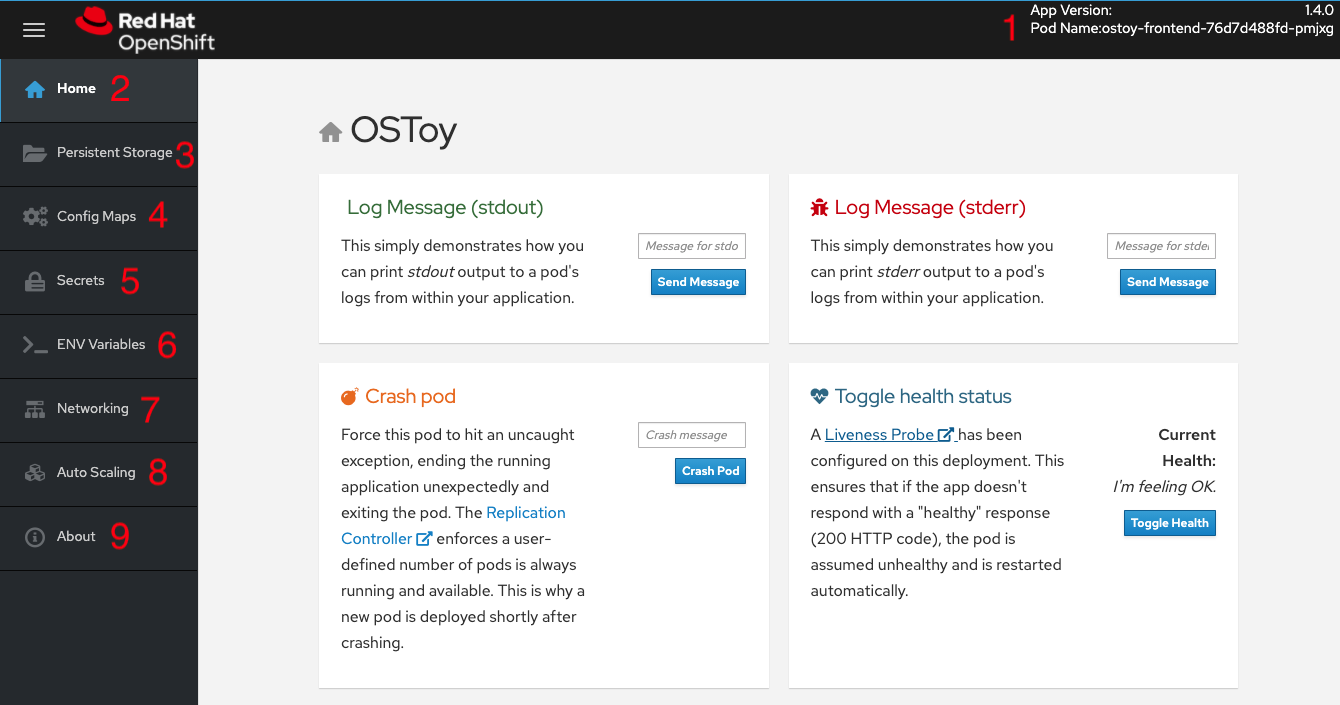
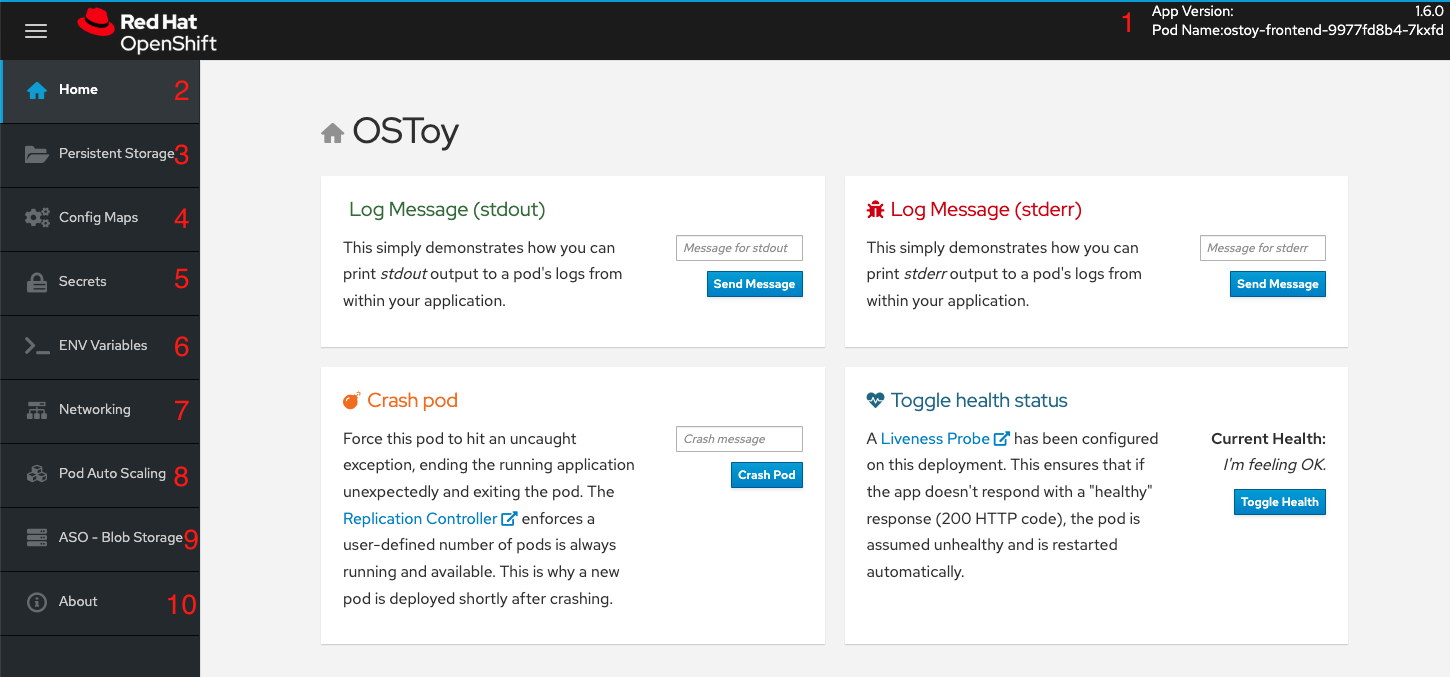
Updates for integration with Blobstore

diff --git a/_entries/03-10 aso-blobstore.md b/_entries/03-10 aso-blobstore.md
@@ -5,13 +5,24 @@ title: Azure Service Operator - Blob Store
 parent-id: lab-clusterapp
 ---
 
+# Integrating with Azure services
+
+So far, our OSToy application has functioned independently without relying on any external services. While this may be nice for a workshop environment, it's not exactly representative of real-world applications. Many applications require external services like databases, object stores, or messaging services.
+
+In this section, we will learn how to integrate our OSToy application with other Azure services, specifically Azure Blob Storage and Key Vault. By the end of this section, our application will be able to securely create and read objects from Blob Storage.
+
+To achieve this, we will use the Azure Service Operator (ASO) to create the necessary services for our application directly from Kubernetes. We will also utilize Key Vault to securely store the connection secret required for accessing the Blob Storage container. We will create a Kubernetes secret to retrieve this secret from Key Vault, enabling our application to access the Blob Storage container using the secret.
+
+To demonstrate this integration, we will use OSToy to create a basic text file and save it in Blob Storage. Finally, we will confirm that the file was successfully added and can be read from Blob Storage.
+
 ## Azure Service Operator (ASO)
 
 The [Azure Service Operator](https://azure.github.io/azure-service-operator/) (ASO) allows you to create and use Azure services directly from
 Kubernetes. You can deploy your applications, including any required Azure services directly within the Kubernetes framework using a familiar structure to declaratively define and create Azure services like Storage Blob or CosmosDB databases.
 
-In order to illustrate the use of the ASO on ARO, we will walk through a simple example of creating an Azure Blob Storage container, connecting to it with OSToy, upload a file to it, and view the file in our application. Interestingly, this part of the workshop will also use Azure Key Vault to store secrets that the application can use to access Azure services.  We will store the secret needed to access the Blob Storage in Azure Key Vault and then mount the secret from there into our cluster for the OSToy application to use.  
+## Key Vault
 
+Azure Key Vault is a cloud-based service provided by Microsoft Azure that allows you to securely store and manage cryptographic keys, secrets, and certificates used by your applications and services.
 
 ### Why should you use Key Vault to store secrets?
 Using a secret store like Azure Key Vault allows you to take advantage of a number of benefits.
@@ -19,15 +30,15 @@ Using a secret store like Azure Key Vault allows you to take advantage of a numb
 1. Centralization - You are able to keep all your organizations secrets in one location.
 1. Security - Features like access control, monitoring, encryption and audit are already baked in.
 1. Rotation - Decoupling the secret from your cluster makes it much easier to rotate secrets since you only have to update it in Key Vault and the Kubernetes secret in the cluster
-    will reference that external secret store.
+    will reference that external secret store. This also allows for separation of duties as someone else can manage these resources.
 
-### Section overview
+## Section overview
 
-To make the process clearer, here is an overview of the procedure we are going to follow. There are three main "parts".
+To provide a clearer understanding of the process, the procedure we will be following consists of three primary parts.
 
-1. **Install the Azure Service Operator** - This allows you to create/delete blob storage through the use of a Kubernetes Custom Resource.  Install the controller which will also create the required namespace and the service account and then create the required resources.
+1. **Install the Azure Service Operator** - This allows you to create/delete Azure services (in our case, Blob Storage) through the use of a Kubernetes Custom Resource. Install the controller which will also create the required namespace and the service account and then create the required resources.
 1. **Setup Key Vault** - Perform required prerequisites (ex: install CSI drivers), create a Key Vault instance, add the connection string.
-1. **Application access** - configuring the application to access the stored connection string in Key Vault and thus enable the application to access the Blob Storage location.
+1. **Application access** - Configuring the application to access the stored connection string in Key Vault and thus enable the application to access the Blob Storage location.
 
 Below is an updated application diagram of what this will look like after completing this section.
 
@@ -64,7 +75,7 @@ Operator can create resources and that access can be granted to Key Vault.
     export SERVICE_PRINCIPAL_CLIENT_SECRET="$(az ad sp create-for-rbac -n aro-lab-sp-${MY_UUID} --role contributor --scopes /subscriptions/$AZURE_SUBSCRIPTION_ID --query 'password' -o tsv)"
     ```
 
-1. Get the service principal Client Id
+1. Get the service principal Client Id.
 
     ```
     export SERVICE_PRINCIPAL_CLIENT_ID="$(az ad sp list --display-name aro-lab-sp-${MY_UUID} --query '[0].appId' -o tsv)"
@@ -81,10 +92,10 @@ Operator can create resources and that access can be granted to Key Vault.
 ### Install the Azure Service Operator
 
 1. Set up ASO
-    1. We first need to install Cert Manager.  Run the following:
+    1. We first need to install Cert Manager.  Run the following.
 
         ```
-        oc apply -f https://github.com/jetstack/cert-manager/releases/download/v1.11.1/cert-manager.yaml
+        oc apply -f https://github.com/jetstack/cert-manager/releases/download/v1.8.2/cert-manager.yaml
         ```
 
     1.  Confirm that the cert-manager pods have started successfully before continuing.
@@ -92,10 +103,10 @@ Operator can create resources and that access can be granted to Key Vault.
         ```
         oc get pods -n cert-manager
         ```
+        
         You will see a response like:
 
         ```
-        $ oc get pods -n cert-manager
         NAME                                       READY   STATUS    RESTARTS   AGE
         cert-manager-677874db78-t6wgn              1/1     Running   0          1m
         cert-manager-cainjector-6c5bf7b759-l722b   1/1     Running   0          1m
@@ -108,13 +119,13 @@ Operator can create resources and that access can be granted to Key Vault.
         helm repo add aso2 https://raw.githubusercontent.com/Azure/azure-service-operator/main/v2/charts
         ```
 
-    1. Update the Helm repository
+    1. Update the Helm repository.
 
         ```
         helm repo update
         ```
 
-    1. Install the ASO from Helm
+    1. Install the ASO.
 
         ```
         helm upgrade --install --devel aso2 aso2/azure-service-operator \
@@ -126,7 +137,7 @@ Operator can create resources and that access can be granted to Key Vault.
         --set azureClientSecret=$SERVICE_PRINCIPAL_CLIENT_SECRET
         ```
 
-     1. Ensure the pods are running successfully.  This could take about 2 minutes.
+     1. Ensure that the pods are running successfully.  This could take about 2 minutes.
 
         ```
         oc get pods -n azureserviceoperator-system
@@ -135,15 +146,13 @@ Operator can create resources and that access can be granted to Key Vault.
         You will see a response like:
 
         ```
-        $ oc get pods -n azureserviceoperator-system
-            NAME                                                      READY   STATUS    RESTARTS   AGE
-            azureserviceoperator-controller-manager-5b4bfc59df-lfpqf   2/2     Running   0          24s
+        NAME                                                      READY   STATUS    RESTARTS   AGE
+        azureserviceoperator-controller-manager-5b4bfc59df-lfpqf   2/2     Running   0          24s
         ```
 
 ## Create Storage Accounts and containers using the ASO
 
-Now we need to create a Storage Account and for our blob storage to use with OSToy.  We could create this using the CLI or the Azure Portal, but wouldn't it be nice if we could
-do so using standard Kubernetes objects. We could define the all the resources our application needs in once place.  We will create each resource separately below.
+Now we need to create a Storage Account for our Blob Storage, to use with OSToy. We could create this using the CLI or the Azure Portal, but wouldn't it be nice if we could do so using standard Kubernetes objects? We could have defined the all these resources in once place (like in the deployment manifest), but for the purpose of gaining experience we will create each resource separately below.
 
 1.  Create a new OpenShift project for our OSToy app (even if you already have one from earlier).
 
@@ -233,7 +242,7 @@ do so using standard Kubernetes objects. We could define the all the resources o
     az storage container list --auth-mode login --account-name ostoystorage${MY_UUID} --query '[].name' -o tsv
     ```
 
-1. Obtain the connection string of the Storage Account for use in the next section. The `--name` parameter is the name of the Storage Account we created using the ASO.
+1. Obtain the connection string of the Storage Account for use in the next section. The connection string contains all the information required to connect to the storage account. This should be guarded and securely stored. The `--name` parameter is the name of the Storage Account we created using the ASO.
 
     ```
     export CONNECTION_STRING=$(az storage account show-connection-string --name ostoystorage${MY_UUID} --resource-group ${PROJECT_NAME}-rg -o tsv)
@@ -241,18 +250,19 @@ do so using standard Kubernetes objects. We could define the all the resources o
 
 The storage account is now set up for use with our application.
 
-
 ## Install Kubernetes Secret Store CSI
 
-In this part we will create a Key Vault location to store the connection string to our Storage account. Our application will use this to connect to the container we created to display the contents, create new files, as well as display the contents of the files.  We will securely mount this as a secret in a secure volume mount within our application.  Our application will then read that to access.  ADD HERE THE BENEFITS AS WELL AS WI coming.
+In this part we will create a Key Vault location to store the connection string to our Storage account. Our application will use this to connect to the Blob Storage container we created, enabling it to display the contents, create new files, as well as display the contents of the files. We will mount this as a secret in a secure volume mount within our application. Our application will then read that to access the Blob storage.
 
-1. To simplify the process for the workshop, there is a script provided that will do the prerequisite work in order to use Key Vault stored secrets.  If you are curious please feel free to read the script, otherwise just run it. This should take about 1-2 minutes to complete.
+1. To simplify the process for the workshop, a script is provided that will do the prerequisite work in order to use Key Vault stored secrets.  If you are curious, please feel free to read the script, otherwise just run it. This should take about 1-2 minutes to complete.
 
     ```
     curl https://raw.githubusercontent.com/microsoft/aroworkshop/master/resources/setup-csi.sh | bash
     ```
 
     Or, if you'd rather not live on the edge, feel free to download it first.
+
+    > Note: You could also connect your cluster to Azure ARC and use the [KeyVault extension](https://learn.microsoft.com/en-us/azure/azure-arc/kubernetes/tutorial-akv-secrets-provider)
 
 1. Create an Azure Key Vault in the resource group we created using the ASO above.
 
@@ -272,7 +282,7 @@ In this part we will create a Key Vault location to store the connection string 
     az keyvault set-policy -n $KEYVAULT_NAME --secret-permissions get --spn $SERVICE_PRINCIPAL_CLIENT_ID
     ```
 
-1. Create a secret for Kubernetes to use to access the Key Vault.
+1. Create a secret for Kubernetes to use to access the Key Vault. When this command is executed, the Service Principal's credentials are stored in the `secrets-store-creds` Secret object, where it can be used by the Secret Store CSI driver to authenticate with Azure Key Vault and retrieve secrets when needed.
 
     ```
     oc create secret generic secrets-store-creds \
@@ -281,13 +291,13 @@ In this part we will create a Key Vault location to store the connection string 
     --from-literal clientsecret=$SERVICE_PRINCIPAL_CLIENT_SECRET
     ```
 
-1. Create a label for the secret. This prevents the CSI driver from creating multiple Kubernetes secrets for the same external secret in Azure Key Vault.
+1. Create a label for the secret. By default, the secret store provider has filtered watch enabled on secrets. You can allow it to find the secret in the default configuration by adding this label to the secret.
 
     ```
     oc -n $PROJECT_NAME label secret secrets-store-creds secrets-store.csi.k8s.io/used=true
     ```
 
-1. Create the Secret Provider Class to give access to this secret.
+1. Create the Secret Provider Class to give access to this secret. To learn more about the fields in this class see [Secret Provider Class](https://learn.microsoft.com/en-us/azure/aks/hybrid/secrets-store-csi-driver#create-and-apply-your-own-secretproviderclass-object) object.
 
     ```
     cat <<EOF | oc apply -f -
@@ -315,19 +325,21 @@ In this part we will create a Key Vault location to store the connection string 
 
 ## Create a custom Security Context Constraint (SCC)
 
-1. Create a new SCC that allows our OSToy app to use the Secrets CSI driver.  The SCC that is run by default, `restricted`, does not allow it. So in this custom SCC we are explicitly allowing access to CSI.  Feel free to view the file first.
+SCCs are outside the scope of this workshop. Though, in short, OpenShift SCCs are a mechanism for controlling the actions and resources that a pod or container can access in an OpenShift cluster. SCCs can be used to enforce security policies at the pod or container level, which helps to improve the overall security of an OpenShift cluster. For more details please see [Managing security context constraints](https://docs.openshift.com/container-platform/latest/authentication/managing-security-context-constraints.html).
+
+1. Create a new SCC that will allow our OSToy app to use the Secrets Store Provider CSI driver. The SCC that is used by default, `restricted`, does not allow it. So in this custom SCC we are explicitly allowing access to CSI. If you are curious feel free to view the file first, the last line in specific.
 
     ```
     oc apply -f https://raw.githubusercontent.com/microsoft/aroworkshop/master/yaml/ostoyscc.yaml
     ```
 
-1. Create a Service Account for the application to run.
+1. Create a Service Account for the application.
 
     ```
     oc create sa ostoy-sa -n $PROJECT_NAME
     ```
 
-1. Grant permissions to the Service Account
+1. Grant permissions to the Service Account using the custom SCC we just created.
 
     ```
     oc adm policy add-scc-to-user ostoyscc system:serviceaccount:${PROJECT_NAME}:ostoy-sa
@@ -347,14 +359,14 @@ In this part we will create a Key Vault location to store the connection string 
     curl https://raw.githubusercontent.com/microsoft/aroworkshop/master/yaml/ostoy-frontend-deployment.yaml | sed 's/#//g' | oc apply -n $PROJECT_NAME -f -
     ```
 
-## See the bucket contents through OSToy
+## See the storage contents through OSToy
 
-After about a minute we can use our app to see the contents of our blob storage container.
+After about a minute we can use our app to see the contents of our Blob storage container.
 
 1. Get the route for the newly deployed application.
 
     ```
-    oc get route ostoy-route -o jsonpath='{.spec.host}{"\n"}'
+    oc get route ostoy-route -n $PROJECT_NAME -o jsonpath='{.spec.host}{"\n"}'
     ```
 
 1. Open a new browser tab and enter the route from above. Ensure that it is using `http://` and not `https://`.

diff --git a/_entries/03-07 networking.md b/_entries/03-07 networking.md
@@ -19,7 +19,7 @@ Click on *Networking* in the left menu. Review the networking configuration.
 
 {% collapsible %}
 
-The right tile titled "Hostname Lookup" illustrates how the service name created for a pod can be used to translate into an internal ClusterIP address. Enter the name of the microservice following the format of `my-svc.my-namespace.svc.cluster.local` which we created in our `ostoy-microservice.yaml` as seen here:
+The right tile titled "Hostname Lookup" illustrates how the service name created for a pod can be used to translate into an internal ClusterIP address. Enter the name of the microservice following the format of `<my-svc>.<my-namespace>.svc.cluster.local` which we created in our `ostoy-microservice.yaml` as seen here:
 
 ```
 apiVersion: v1
@@ -48,7 +48,7 @@ We will see an IP address returned.  In our example it is `172.30.165.246`.  Thi
 
 ### Scaling
 
-OpenShift allows one to scale up/down the number of pods for each part of an application as needed.  This can be accomplished via changing our *replicaset/deployment* definition (declarative), by the command line (imperative), or via the web console (imperative). In our *deployment* definition (part of our `ostoy-fe-deployment.yaml`) we stated that we only want one pod for our microservice to start with. This means that the Kubernetes Replication Controller will always strive to keep one pod alive. We can also define pod autoscaling using the [Horizontal Pod Autoscaler](https://docs.openshift.com/container-platform/latest/nodes/pods/nodes-pods-autoscaling.html) (HPA) based on load to expand past what we defined. We will do this in a later section of this lab.
+OpenShift allows one to scale up/down the number of pods for each part of an application as needed.  This can be accomplished via changing our *replicaset/deployment* definition (declarative), by the command line (imperative), or via the web console (imperative). In our *deployment* definition (part of our `ostoy-frontend-deployment.yaml`) we stated that we only want one pod for our microservice to start with. This means that the Kubernetes Replication Controller will always strive to keep one pod alive. We can also define pod autoscaling using the [Horizontal Pod Autoscaler](https://docs.openshift.com/container-platform/latest/nodes/pods/nodes-pods-autoscaling.html) (HPA) based on load to expand past what we defined. We will do this in a later section of this lab.
 
 {% collapsible %}
 

diff --git a/_entries/03-06 conf-sec-env.md b/_entries/03-06 conf-sec-env.md
@@ -15,7 +15,7 @@ ConfigMaps allow you to decouple configuration artifacts from container image co
 
 Click on *Config Maps* in the left menu.
 
-This will display the contents of the configmap available to the OSToy application.  We defined this in the `ostoy-fe-deployment.yaml` here:
+This will display the contents of the configmap available to the OSToy application.  We defined this in the `ostoy-frontend-deployment.yaml` here:
 
 ```
 kind: ConfigMap
@@ -36,7 +36,7 @@ Kubernetes Secret objects allow you to store and manage sensitive information, s
 
 Click on *Secrets* in the left menu.
 
-This will display the contents of the secrets available to the OSToy application.  We defined this in the `ostoy-fe-deployment.yaml` here:
+This will display the contents of the secrets available to the OSToy application.  We defined this in the `ostoy-frontend-deployment.yaml` here:
 
 ```
 apiVersion: v1
@@ -58,7 +58,7 @@ Using environment variables is an easy way to change application behavior withou
 
 Click on *ENV Variables* in the left menu.
 
-This will display the environment variables available to the OSToy application.  We added three as defined in the deployment spec of `ostoy-fe-deployment.yaml` here:
+This will display the environment variables available to the OSToy application.  We added four as defined in the deployment spec of `ostoy-frontend-deployment.yaml` here:
 
 ```
   env:
@@ -74,8 +74,12 @@ This will display the environment variables available to the OSToy application. 
         key: ENV_TOY_SECRET
   - name: MICROSERVICE_NAME
     value: OSTOY_MICROSERVICE_SVC
+  - name: NAMESPACE
+  valueFrom:
+    fieldRef:
+      fieldPath: metadata.namespace
 ```
 
-The last one, `MICROSERVICE_NAME` is used for the intra-cluster communications between pods for this application.  The application looks for this environment variable to know how to access the microservice in order to get the colors.
+The third one, `MICROSERVICE_NAME` is used for the intra-cluster communications between pods for this application.  The application looks for this environment variable to know how to access the microservice in order to get the colors.
 
 {% endcollapsible %}

diff --git a/_entries/03-01 appoverview.md b/_entries/03-01 appoverview.md
@@ -11,7 +11,7 @@ parent-id: lab-clusterapp
 - OSToy front-end container image: <https://quay.io/repository/ostoylab/ostoy-frontend?tab=tags>
 - OSToy microservice container image: <https://quay.io/repository/ostoylab/ostoy-microservice?tab=tags>
 - Deployment Definition YAMLs:
-  - [ostoy-fe-deployment.yaml](https://raw.githubusercontent.com/microsoft/aroworkshop/master/yaml/ostoy-fe-deployment.yaml)
+  - [ostoy-frontend-deployment.yaml](https://raw.githubusercontent.com/microsoft/aroworkshop/master/yaml/ostoy-frontend-deployment.yaml)
   - [ostoy-microservice-deployment.yaml](https://raw.githubusercontent.com/microsoft/aroworkshop/master/yaml/ostoy-microservice-deployment.yaml)
 
 > **Note** In order to simplify the deployment of the app (which you will do next) we have included all the objects needed in the above YAMLs as "all-in-one" YAMLs.  In reality though, an enterprise would most likely want to have a different yaml file for each Kubernetes object.
@@ -27,6 +27,7 @@ OSToy is a simple Node.js application that we will deploy to Azure Red Hat OpenS
 - if connected to shared storage, read and write files
 - check network connectivity, intra-cluster DNS, and intra-communication with an included microservice
 - increase the load to view automatic scaling of the pods to handle the load (via the Horizontal Pod Autoscaler)
+- connect to an Azure Blob Storage container to read and write objects (if Blob Storage already present)
 
 ### OSToy Application Diagram
 
@@ -42,7 +43,8 @@ OSToy is a simple Node.js application that we will deploy to Azure Red Hat OpenS
 6. **ENV Variables:** Shows the environment variables available to the application.
 7. **Auto Scaling:** Explore the Horizontal Pod Autoscaler to see how increased loads are handled.
 8. **Networking:** Tools to illustrate networking within the application.
-9. **About:** Shows some more information about the application.
+9. **ASO - Blob Storage:** Integrate with Azure Blob Storage to read and write objects to a container.
+10. **About:** Shows some more information about the application.
 
 ![Home Page](media/managedlab/10-ostoy-homepage-1.png)
 

diff --git a/_entries/03-08 hpa.md b/_entries/03-08 hpa.md
@@ -20,7 +20,9 @@ We will create a HPA and then use OSToy to generate CPU intensive workloads.  We
 
 Run the following command to create the HPA. This will create an HPA that maintains between 1 and 10 replicas of the pods controlled by the *ostoy-microservice* deployment created. Roughly speaking, the HPA will increase and decrease the number of replicas (via the deployment) to maintain an average CPU utilization across all pods of 80% (since each pod requests 50 millicores, this means average CPU usage of 40 millicores).
 
-`oc autoscale deployment/ostoy-microservice --cpu-percent=80 --min=1 --max=10`
+```
+oc autoscale deployment/ostoy-microservice --cpu-percent=80 --min=1 --max=10
+```
 
 #### 2. View the current number of pods
 
@@ -34,11 +36,13 @@ As was in the networking section you will see the total number of pods available
 
 You can use the following command to see the running microservice pods only:
 
-`oc get pods --field-selector=status.phase=Running | grep microservice`
+```
+oc get pods --field-selector=status.phase=Running | grep microservice
+```
 
 #### 3. Increase the load
 
-Since we now only have one pod, let's increase the workload that the pod needs to perform. Click the link in the center of the card that says "increase the load".  **Please click only *ONCE*!**
+Since we now only have one pod, let's increase the workload that the pod needs to perform. Click the button in the card that says "increase the load".  **Please click only *ONCE*!**
 
 This will generate some CPU intensive calculations.  (If you are curious about what it is doing you can click [here](https://github.com/openshift-cs/ostoy/blob/master/microservice/app.js#L32)).
 

diff --git a/_entries/03-02 deployment.md b/_entries/03-02 deployment.md
@@ -52,9 +52,9 @@ Equivalently you can also create this new project using the web console by selec
 
 {% endcollapsible %}
 
-### View the YAML deployment objects
+### View the YAML deployment manifest
 
-View the Kubernetes deployment object YAMLs.  If you wish you can download them from the following locations to your Azure Cloud Shell, to your local machine, or just use the direct link in the next steps.
+View the Kubernetes deployment manifest.  If you wish you can download them from the following locations to your Azure Cloud Shell, to your local machine, or just use the direct link in the next steps.
 
 {% collapsible %}
 
@@ -135,7 +135,7 @@ NAME           HOST/PORT                                                      PA
 ostoy-route   ostoy-route-ostoy.apps.abcd1234.westus2.aroapp.io             ostoy-frontend-svc   <all>                   None
 ```
 
-Copy `ostoy-route-ostoy.apps.abcd1234.westus2.aroapp.io` above and paste it into your browser and press enter.  You should see the homepage of our application.
+Copy `ostoy-route-ostoy.apps.abcd1234.westus2.aroapp.io` above and paste it into your browser and press enter.  You should see the homepage of our application. Ensure that it is **http://** and not **https://**
 
 ![Home Page](media/managedlab/10-ostoy-homepage.png)
 
